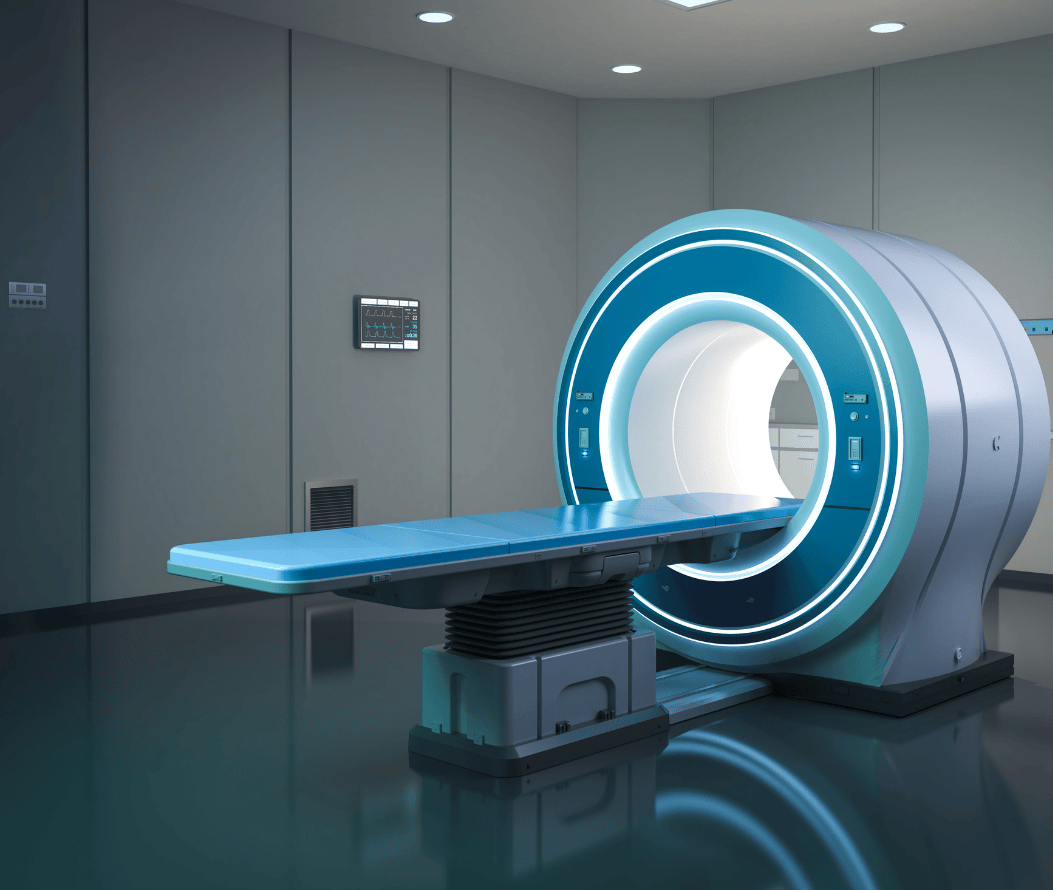
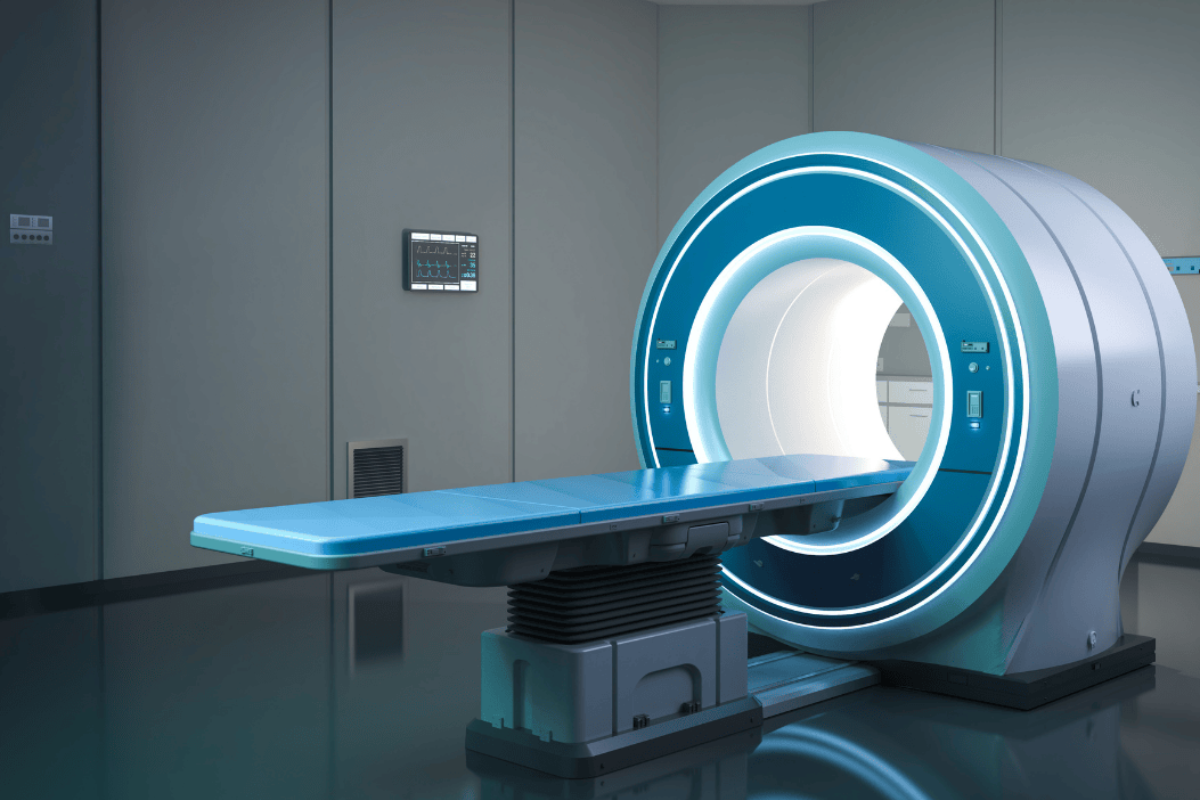
pp

diff --git a/index.html b/index.html
@@ -294,7 +294,7 @@
                             style="background-image: url(assets/newdiagnosticsimages/hero2.png);"></div>
                         <div class="container">
                             <div class="row">
-                                <div class="col-lg-7">
+                                <div class="col-lg-8">
                                     <div class="main-slider-one__content">
                                         <h5 class="main-slider-one__sub-title">State-of-the-Art Imaging</h5>
                                         <h2 class="main-slider-one__title">Accurate scans with advanced technology
